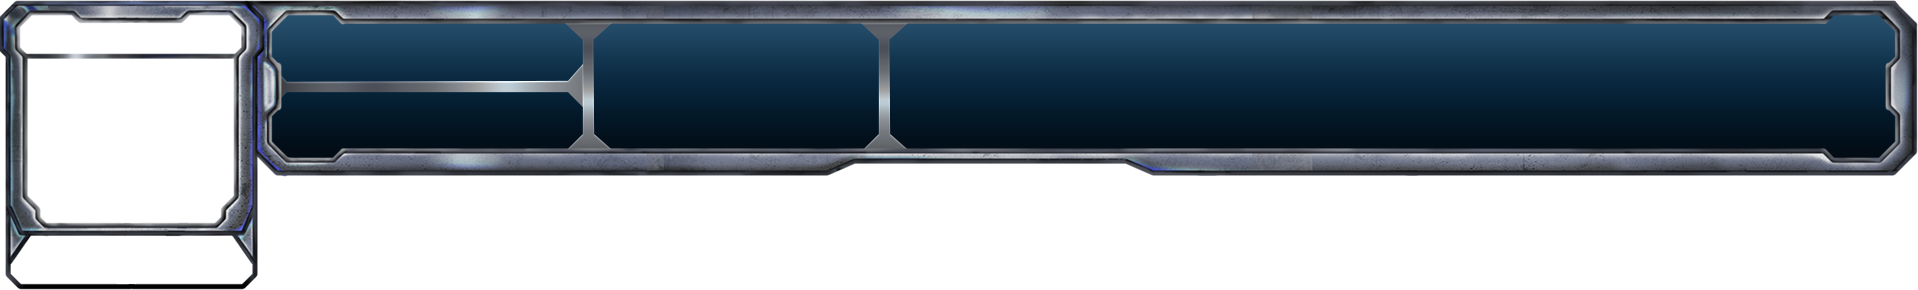
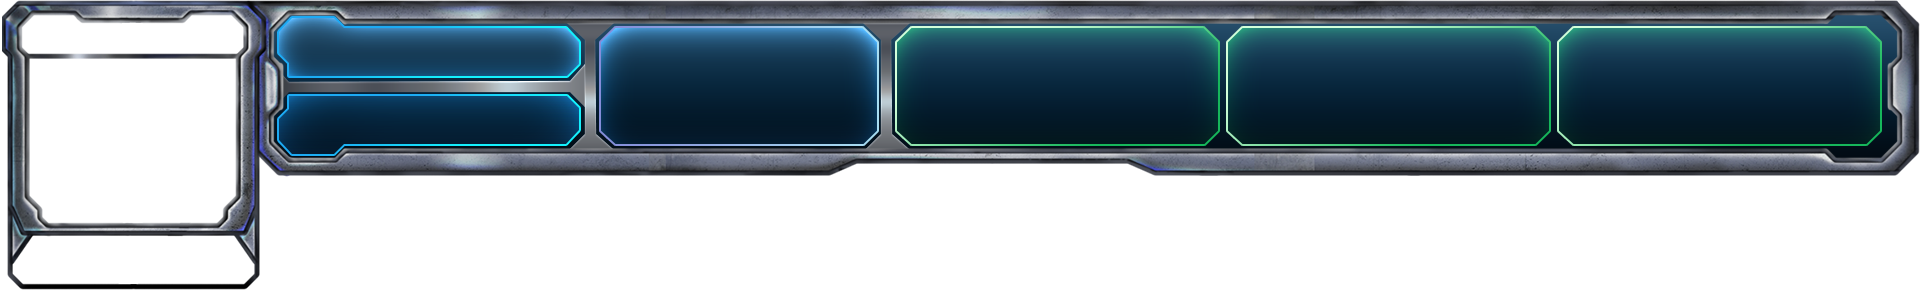
feat: 更换切图

diff --git a/src/components/Dashboard/Info.tsx b/src/components/Dashboard/Info.tsx
@@ -7,26 +7,19 @@ import ButtonGroup, { ButtonGroupProps } from './ButtonGroup';
 const ButtonLeft = styled(Button)`
   width: 304px;
   height: 62px;
-  /* left: 4px; */
 `;
 const ButtonLeft1 = styled(ButtonLeft)`
-  background: url('/images/commons/dashboard/b2.png');
-  /* top: 20px; */
 `;
 const ButtonLeft2 = styled(ButtonLeft)`
-  background: url('/images/commons/dashboard/b3.png');
-  /* top: 96px; */
 `;
 
 const ButtonTag1 = styled(Button)`
   width: 274px;
   height: 110px;
-  background: url('/images/commons/dashboard/b5.png');
 `;
 const ButtonTag2 = styled(Button)`
   width: 323px;
   height: 110px;
-  background: url('/images/commons/dashboard/b4.png');
 `;
 
 interface InfoProps extends ButtonGroupProps {
@@ -37,15 +30,15 @@ const Info: React.FC<InfoProps> = ({ onRefresh, onBack, children }) => {
   return (
     <Box width='100%'>
       <Flex height='179px' width='100%'>
-        <Box pl='11px' pt='20px'>
-          <Box>
-            <ButtonLeft1 variant='custom'>111</ButtonLeft1>
-          </Box>
-          <Box pt='13px'>
+        <Box pl='6px' pt='18px'>
+          <Flex>
+            <Box>855456163</Box>
+          </Flex>
+          <Box pt='15px'>
             <ButtonLeft2 variant='custom'>111</ButtonLeft2>
           </Box>
         </Box>
-        <Flex ml='32px' pt='32px'>
+        <Flex ml='16px' pt='32px'>
           <Box>
             <Link to='/star'>
               <ButtonTag1 variant='custom'>月亮</ButtonTag1>
